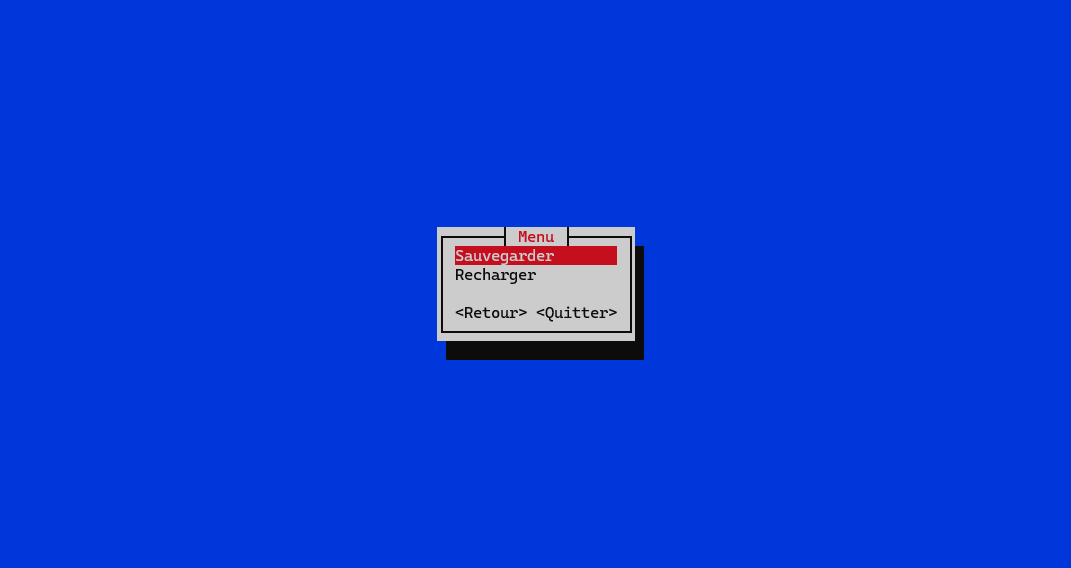
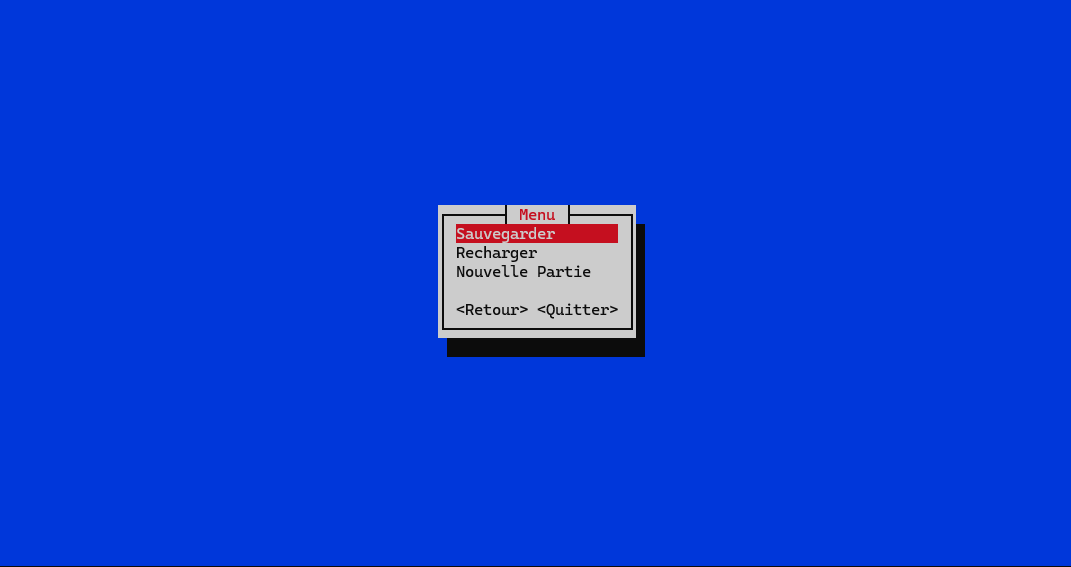
ajout d'images pour le manuel

Changed region(s): [[0.4006, 0.3598, 0.6162, 0.5996], [0.0, 0.9894, 1.0, 1.0], [0.4314, 0.6296, 0.5854, 0.6596]]

diff --git a/Manuel.md b/Manuel.md
@@ -1,0 +1,183 @@
+# Manuel d'utilisation
+
+## Sommaire
+- [Menu Principal](#menu-principal)
+- [Menu du Jeu](#menu-du-jeu)
+- [Carte](#carte)
+- [Actions](#actions)
+  - [Analyser la zone](#analyser-la-zone)
+  - [Récolter](#récolter)
+  - [PNJ](#pnj)
+    - [Parler](#pnj)
+    - [Commerce](#pnj)
+    - [Voler](#pnj)
+  - [Combattre](#combattre)
+- [Personnage](#personnage)
+  - [Informations](#informations)
+    - [Attribuer des points](#attribuer-des-points)
+    - [Statistiques](#statistiques)
+    - [Équipement](#equipement)
+    - [Attaques](#attaques)
+  - [Inventaire](#inventaire)
+  - [Quêtes](#quêtes)
+- [Menu](#menu)
+
+
+Pour démarrer le jeu, il suffit de se déplacer dans le dossier `projet_rust/projet_rust`,  
+puis d’exécuter la commande `cargo run` dans `projet_rust`.
+
+## Menu Principal
+
+Une fois cela fait, l’interface s’ouvre sur le menu du jeu.
+
+![Image du Menu principal](./modélisation_rust/manuel_rust/MenuPrincipal.png)
+
+Pour démarrer le jeu, il faut appuyer sur **Jouer**.
+
+## Menu du Jeu
+
+Une fois le jeu lancé, plusieurs informations sont disponibles telles que le nom du joueur, son niveau, sa position et ses points de vie.
+
+De là, 4 choix sont offerts :  
+- [**Carte**](#carte) → pour se déplacer  
+- [**Actions**](#actions) → pour effectuer diverses actions dans la zone actuelle  
+- [**Personnage**](#personnage) → pour voir les informations sur le personnage du joueur (telles que ses stats, son inventaire ou ses quêtes)  
+- [**Menu**](#menu) → les paramètres du jeu, tels que la sauvegarde, le chargement de sauvegarde ou encore quitter le jeu  
+![Image du Menu du Jeu](./modélisation_rust/manuel_rust/Jeu.png)
+
+## Carte
+
+Depuis la carte, il est possible de choisir de se rendre dans une destination reliée à celle où se trouve actuellement le joueur.
+
+Ici, la Chambre Bleue est reliée aux chambres Rouge, Jaune et Verte.
+
+Le joueur peut donc choisir de s’y rendre.
+
+![Image de la Carte](./modélisation_rust/manuel_rust/Carte.png)
+
+## Actions
+
+Le menu des **Actions** permet d’effectuer diverses actions dans la zone actuelle.
+
+![image d'Actions](./modélisation_rust/manuel_rust/Actions.png)
+
+### Analyser la zone
+
+L’option **Analyser la zone** permet de donner des détails sur la zone actuelle tels que :  
+- Le nom du lieu actuel et sa description  
+- Les ressources disponibles dans la zone  
+- Les PNJ présents dans la zone  
+- Les ennemis présents et leurs niveaux possibles dans cette zone
+
+![image d'analyse de la zone](./modélisation_rust/manuel_rust/AnalyseZone.png)
+
+### Récolter
+
+L’option **Récolter** permet de récupérer les items disponibles dans la zone pour les ajouter à l’inventaire du joueur.
+
+![image récolte](./modélisation_rust/manuel_rust/Récolter.png)
+
+### PNJ
+
+L’option **PNJ** permet d’interagir avec les différents PNJ dans la zone.
+
+![image pnj](./modélisation_rust/manuel_rust/PNJ.png)
+
+Types d’interactions possibles :  
+- **Parler**  
+
+- **Commerce**  
+
+- **Voler**  
+
+![image pnj_interactions](./modélisation_rust/manuel_rust/PNJ_Interactions.png)
+
+
+### Combattre
+
+L’option **Combattre** permet d’affronter un ennemi dans la zone.
+
+Durant un combat, le joueur a 3 choix : **Attaquer**, **Utiliser ses items** ou **Fuir**.
+
+![image Combat](./modélisation_rust/manuel_rust/Combattre.png)
+
+## Personnage
+
+Le menu du **Personnage** permet de voir les informations sur le personnage du joueur :
+
+![image Personnage](./modélisation_rust/manuel_rust/Personnage.png)
+
+### Informations
+
+L’option **Informations** permet de consulter diverses données liées au personnage.
+
+![image Informations](./modélisation_rust/manuel_rust/Informations.png)
+
+#### Attribuer des points
+
+L’option **Attribuer des points** permet d’améliorer les stats du personnage.
+
+![image Points](./modélisation_rust/manuel_rust/points.png)
+
+Le joueur peut choisir les stats à améliorer et voir les changements.
+
+![image améliorations](./modélisation_rust/manuel_rust/pointsAmélioration.png)
+
+#### Statistiques
+
+L’option **Statistiques** permet de consulter les statistiques actuelles du joueur.
+
+![image stats](./modélisation_rust/manuel_rust/statistiques.png)
+
+#### Équipement
+
+L’option **Équipement** permet de voir les équipements actuellement équipés sur le personnage.
+
+![image equipements](./modélisation_rust/manuel_rust/equipements.png)
+
+Depuis cet écran, le joueur peut également voir les détails de l’équipement et choisir de le déséquiper.
+
+![image equipements](./modélisation_rust/manuel_rust/equipements_stats.png)
+
+
+#### Attaques
+
+L’option **Attaques** permet de consulter la liste des attaques que le joueur peut utiliser pendant un combat.
+
+![image Attaques](./modélisation_rust/manuel_rust/attaques.png)
+
+Elle permet également de voir les détails d’une attaque, tels que sa description, l’arme nécessaire pour l’utiliser et ses dégâts.
+
+![image Attaques_stats](./modélisation_rust/manuel_rust/attaques_stats.png)
+
+
+
+### Inventaire
+
+L’option **Inventaire** permet de consulter les objets consommables, les ressources ou encore les équipements que le joueur possède.
+
+![image Inventaire](./modélisation_rust/manuel_rust/Inventaire.png)
+
+Depuis l’inventaire, le joueur peut utiliser ou décomposer un objet.
+
+![image ItemUtiliser](./modélisation_rust/manuel_rust/Consommable.png)
+
+Il peut également équiper un équipement de son inventaire.
+
+![image EquipementInvetaire](./modélisation_rust/manuel_rust/InventaireEquipement.png)
+
+### Quêtes
+
+L’option **Quêtes** permet de consulter la liste des quêtes actives du joueur.
+
+![image Quete](./modélisation_rust/manuel_rust/Quete.png)
+
+Elle permet également de consulter les détails d’une quête, tels que sa description et ses récompenses.
+
+![image QueteInfo](./modélisation_rust/manuel_rust/QueteDetails.png)
+
+
+## Menu
+Le **Menu** permet de recharger la sauvegarde, de sauvegarder la partie actuelle ou de démarrer une nouvelle partie. Le joueur a également l'option de quitter le jeu :
+
+![image Menu](./modélisation_rust/manuel_rust/Menu.png)
